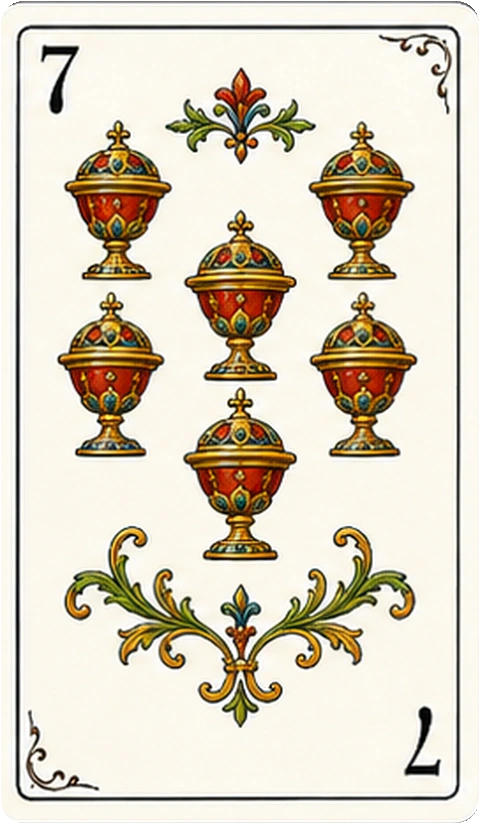
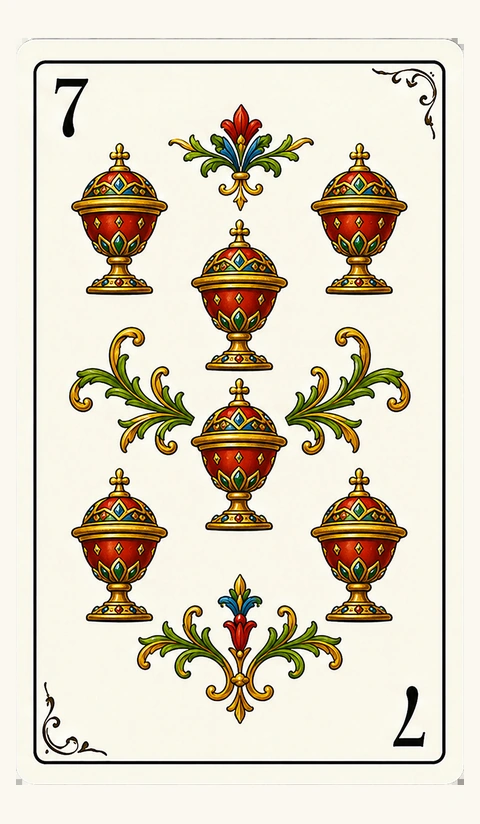
Add files via upload

diff --git a/card-preview.html b/card-preview.html
@@ -1,60 +1,1 @@
-<!doctype html>
-<html lang="es">
-<head>
-<meta charset="utf-8">
-<meta name="viewport" content="width=device-width,initial-scale=1">
-<title>Baraja personalizada — Tute IA v8</title>
-<style>
-:root{color-scheme:dark;font-family:system-ui,sans-serif}
-body{margin:0;padding:28px;background:radial-gradient(circle at 50% 35%,#174a39,#071c17 70%);color:#fff}
-h1,p{max-width:1500px;margin:0 auto} p{color:#b8c9c0;margin-top:7px}
-.deck{max-width:1500px;margin:24px auto 0;display:grid;grid-template-columns:repeat(10,minmax(70px,1fr));gap:12px}
-img{width:100%;display:block;border-radius:8px;filter:drop-shadow(0 12px 16px rgba(0,0,0,.38))}
-@media(max-width:900px){.deck{grid-template-columns:repeat(5,1fr)}}
-</style>
-</head>
-<body>
-<h1>Baraja personalizada · 40 cartas</h1>
-<p>Oros, copas, bastos y espadas integrados individualmente.</p>
-<div class="deck">
-<img src="assets/cards/oros-1.webp" alt="1 de oros">
-<img src="assets/cards/oros-2.webp" alt="2 de oros">
-<img src="assets/cards/oros-3.webp" alt="3 de oros">
-<img src="assets/cards/oros-4.webp" alt="4 de oros">
-<img src="assets/cards/oros-5.webp" alt="5 de oros">
-<img src="assets/cards/oros-6.webp" alt="6 de oros">
-<img src="assets/cards/oros-7.webp" alt="7 de oros">
-<img src="assets/cards/oros-10.webp" alt="10 de oros">
-<img src="assets/cards/oros-11.webp" alt="11 de oros">
-<img src="assets/cards/oros-12.webp" alt="12 de oros">
-<img src="assets/cards/copas-1.webp" alt="1 de copas">
-<img src="assets/cards/copas-2.webp" alt="2 de copas">
-<img src="assets/cards/copas-3.webp" alt="3 de copas">
-<img src="assets/cards/copas-4.webp" alt="4 de copas">
-<img src="assets/cards/copas-5.webp" alt="5 de copas">
-<img src="assets/cards/copas-6.webp" alt="6 de copas">
-<img src="assets/cards/copas-7.webp" alt="7 de copas">
-<img src="assets/cards/copas-10.webp" alt="10 de copas">
-<img src="assets/cards/copas-11.webp" alt="11 de copas">
-<img src="assets/cards/copas-12.webp" alt="12 de copas">
-<img src="assets/cards/bastos-1.webp" alt="1 de bastos">
-<img src="assets/cards/bastos-2.webp" alt="2 de bastos">
-<img src="assets/cards/bastos-3.webp" alt="3 de bastos">
-<img src="assets/cards/bastos-4.webp" alt="4 de bastos">
-<img src="assets/cards/bastos-5.webp" alt="5 de bastos">
-<img src="assets/cards/bastos-6.webp" alt="6 de bastos">
-<img src="assets/cards/bastos-7.webp" alt="7 de bastos">
-<img src="assets/cards/bastos-10.webp" alt="10 de bastos">
-<img src="assets/cards/bastos-11.webp" alt="11 de bastos">
-<img src="assets/cards/bastos-12.webp" alt="12 de bastos">
-<img src="assets/cards/espadas-1.webp" alt="1 de espadas">
-<img src="assets/cards/espadas-2.webp" alt="2 de espadas">
-<img src="assets/cards/espadas-3.webp" alt="3 de espadas">
-<img src="assets/cards/espadas-4.webp" alt="4 de espadas">
-<img src="assets/cards/espadas-5.webp" alt="5 de espadas">
-<img src="assets/cards/espadas-6.webp" alt="6 de espadas">
-<img src="assets/cards/espadas-7.webp" alt="7 de espadas">
-<img src="assets/cards/espadas-10.webp" alt="10 de espadas">
-<img src="assets/cards/espadas-11.webp" alt="11 de espadas">
-<img src="assets/cards/espadas-12.webp" alt="12 de espadas">
-</div></body></html>
+<!doctype html><html lang="es"><head><meta charset="utf-8"><meta name="viewport" content="width=device-width, initial-scale=1"><title>Preview v9</title><style>body{margin:0;padding:24px;background:#0a241d;color:#fff;font-family:system-ui,sans-serif}h1{max-width:1200px;margin:0 auto 18px}.grid{max-width:1200px;margin:auto;display:grid;grid-template-columns:repeat(auto-fit,minmax(110px,1fr));gap:14px}img{width:100%;display:block;filter:drop-shadow(0 12px 16px rgba(0,0,0,.35))}</style></head><body><h1>Tute IA v9 — mazo corregido completo</h1><div class="grid"><img src="assets/cards/oros-1.webp"><img src="assets/cards/oros-7.webp"><img src="assets/cards/oros-10.webp"><img src="assets/cards/oros-11.webp"><img src="assets/cards/oros-12.webp"><img src="assets/cards/copas-1.webp"><img src="assets/cards/copas-7.webp"><img src="assets/cards/copas-12.webp"><img src="assets/cards/espadas-1.webp"><img src="assets/cards/espadas-2.webp"><img src="assets/cards/espadas-7.webp"><img src="assets/cards/espadas-12.webp"><img src="assets/cards/bastos-1.webp"><img src="assets/cards/bastos-2.webp"><img src="assets/cards/bastos-7.webp"><img src="assets/cards/bastos-12.webp"></div></body></html>

diff --git a/sw.js b/sw.js
@@ -1,53 +1,53 @@
-const CACHE = "tute-ia-v8.0.0";
+const CACHE = "tute-ia-v9.0.0";
 const ASSETS = [
   "./",
   "./index.html",
-  "./styles.css?v=8.0.0",
-  "./app.js?v=8.0.0",
+  "./styles.css?v=9.0.0",
+  "./app.js?v=9.0.0",
   "./manifest.webmanifest",
   "./assets/icon-192.png",
   "./assets/icon-512.png",
-  "./assets/cards/back.svg",
-  "./assets/cards/oros-1.webp",
-  "./assets/cards/oros-2.webp",
-  "./assets/cards/oros-3.webp",
-  "./assets/cards/oros-4.webp",
-  "./assets/cards/oros-5.webp",
-  "./assets/cards/oros-6.webp",
-  "./assets/cards/oros-7.webp",
-  "./assets/cards/oros-10.webp",
-  "./assets/cards/oros-11.webp",
-  "./assets/cards/oros-12.webp",
-  "./assets/cards/copas-1.webp",
-  "./assets/cards/copas-2.webp",
-  "./assets/cards/copas-3.webp",
-  "./assets/cards/copas-4.webp",
-  "./assets/cards/copas-5.webp",
-  "./assets/cards/copas-6.webp",
-  "./assets/cards/copas-7.webp",
-  "./assets/cards/copas-10.webp",
-  "./assets/cards/copas-11.webp",
-  "./assets/cards/copas-12.webp",
   "./assets/cards/bastos-1.webp",
+  "./assets/cards/bastos-10.webp",
+  "./assets/cards/bastos-11.webp",
+  "./assets/cards/bastos-12.webp",
   "./assets/cards/bastos-2.webp",
   "./assets/cards/bastos-3.webp",
   "./assets/cards/bastos-4.webp",
   "./assets/cards/bastos-5.webp",
   "./assets/cards/bastos-6.webp",
   "./assets/cards/bastos-7.webp",
-  "./assets/cards/bastos-10.webp",
-  "./assets/cards/bastos-11.webp",
-  "./assets/cards/bastos-12.webp",
+  "./assets/cards/copas-1.webp",
+  "./assets/cards/copas-10.webp",
+  "./assets/cards/copas-11.webp",
+  "./assets/cards/copas-12.webp",
+  "./assets/cards/copas-2.webp",
+  "./assets/cards/copas-3.webp",
+  "./assets/cards/copas-4.webp",
+  "./assets/cards/copas-5.webp",
+  "./assets/cards/copas-6.webp",
+  "./assets/cards/copas-7.webp",
   "./assets/cards/espadas-1.webp",
+  "./assets/cards/espadas-10.webp",
+  "./assets/cards/espadas-11.webp",
+  "./assets/cards/espadas-12.webp",
   "./assets/cards/espadas-2.webp",
   "./assets/cards/espadas-3.webp",
   "./assets/cards/espadas-4.webp",
   "./assets/cards/espadas-5.webp",
   "./assets/cards/espadas-6.webp",
   "./assets/cards/espadas-7.webp",
-  "./assets/cards/espadas-10.webp",
-  "./assets/cards/espadas-11.webp",
-  "./assets/cards/espadas-12.webp"
+  "./assets/cards/oros-1.webp",
+  "./assets/cards/oros-10.webp",
+  "./assets/cards/oros-11.webp",
+  "./assets/cards/oros-12.webp",
+  "./assets/cards/oros-2.webp",
+  "./assets/cards/oros-3.webp",
+  "./assets/cards/oros-4.webp",
+  "./assets/cards/oros-5.webp",
+  "./assets/cards/oros-6.webp",
+  "./assets/cards/oros-7.webp",
+  "./assets/cards/back.svg"
 ];
 
 self.addEventListener("install", event => {

diff --git a/index.html b/index.html
@@ -8,7 +8,7 @@
   <title>Tute IA — Mesa Cero</title>
   <link rel="manifest" href="manifest.webmanifest">
   <link rel="icon" href="assets/icon-192.png">
-  <link rel="stylesheet" href="styles.css?v=8.0.0">
+  <link rel="stylesheet" href="styles.css?v=9.0.0">
 </head>
 <body>
   <div class="noise" aria-hidden="true"></div>
@@ -308,6 +308,6 @@
 
   <div class="toast-region" id="toastRegion" aria-live="assertive"></div>
 
-  <script src="app.js?v=8.0.0"></script>
+  <script src="app.js?v=9.0.0"></script>
 </body>
 </html>

diff --git a/README.md b/README.md
@@ -1,19 +1,7 @@
-# Tute IA — Mesa Cero · v8
+# Tute IA — Mesa Cero · v9
 
-Versión que integra de verdad las cuatro láminas de cartas aportadas por el usuario.
+Versión actualizada con el mazo corregido completo que has subido.
 
-## Incluye
-
-- 40 cartas recortadas individualmente.
-- Oros, copas, bastos y espadas personalizados.
-- Formato WebP optimizado.
-- Mano sin autoordenado y reordenable manualmente.
-- Reparto y robo manual.
-- Animaciones físicas y compatibilidad móvil heredadas de la v7.
-- Nueva caché v8 para evitar que GitHub Pages conserve la baraja anterior.
-
-## Actualización de GitHub
-
-Sube todo el contenido de esta carpeta a la raíz del repositorio y reemplaza
-especialmente `assets/cards`, `app.js`, `styles.css`, `index.html` y `sw.js`.
-Después recarga con `Ctrl + Shift + R`.
+- 40 cartas finales integradas en `assets/cards/`.
+- Se mantienen la mano reordenable, reparto manual, robo manual y animaciones.
+- Caché renovada a `v9.0.0`.

diff --git a/QA.md b/QA.md
@@ -1,9 +1,6 @@
-# QA v8
+# QA v9
 
-- 40 cartas WebP presentes: diez por cada palo.
-- Todas las cartas tienen 480 × 824 px.
-- El motor carga las caras WebP y conserva el reverso SVG.
-- Se mantiene la mano reordenable mediante ratón y gesto táctil.
-- Se mantiene el reparto, el robo manual y las animaciones de la v7.
-- Proporción visual actualizada a 1:1,716.
-- Caché renovada a `tute-ia-v8.0.0`.
+- Mazo completo verificado: 40 cartas `.webp` + `back.svg`.
+- Integradas las 10 cartas que venían como PNG en el ZIP.
+- Proporción normalizada para que coincidan con el resto de la baraja.
+- Cache busting actualizado a `v9.0.0`.

diff --git a/CREDITOS.md b/CREDITOS.md
@@ -1,7 +1,4 @@
-# Créditos de la baraja v8
+# Créditos del mazo v9
 
-Las 40 caras de las cartas proceden de las cuatro láminas aportadas por el usuario
-para este proyecto. Se han recortado, normalizado, redimensionado y optimizado
-individualmente en formato WebP.
-
-El reverso continúa siendo un diseño propio de Tute IA.
+Cartas integradas a partir del ZIP `cartas corregidas.zip` aportado por el usuario.
+Las cartas suministradas en PNG se han recortado y normalizado para completar el mazo final.
